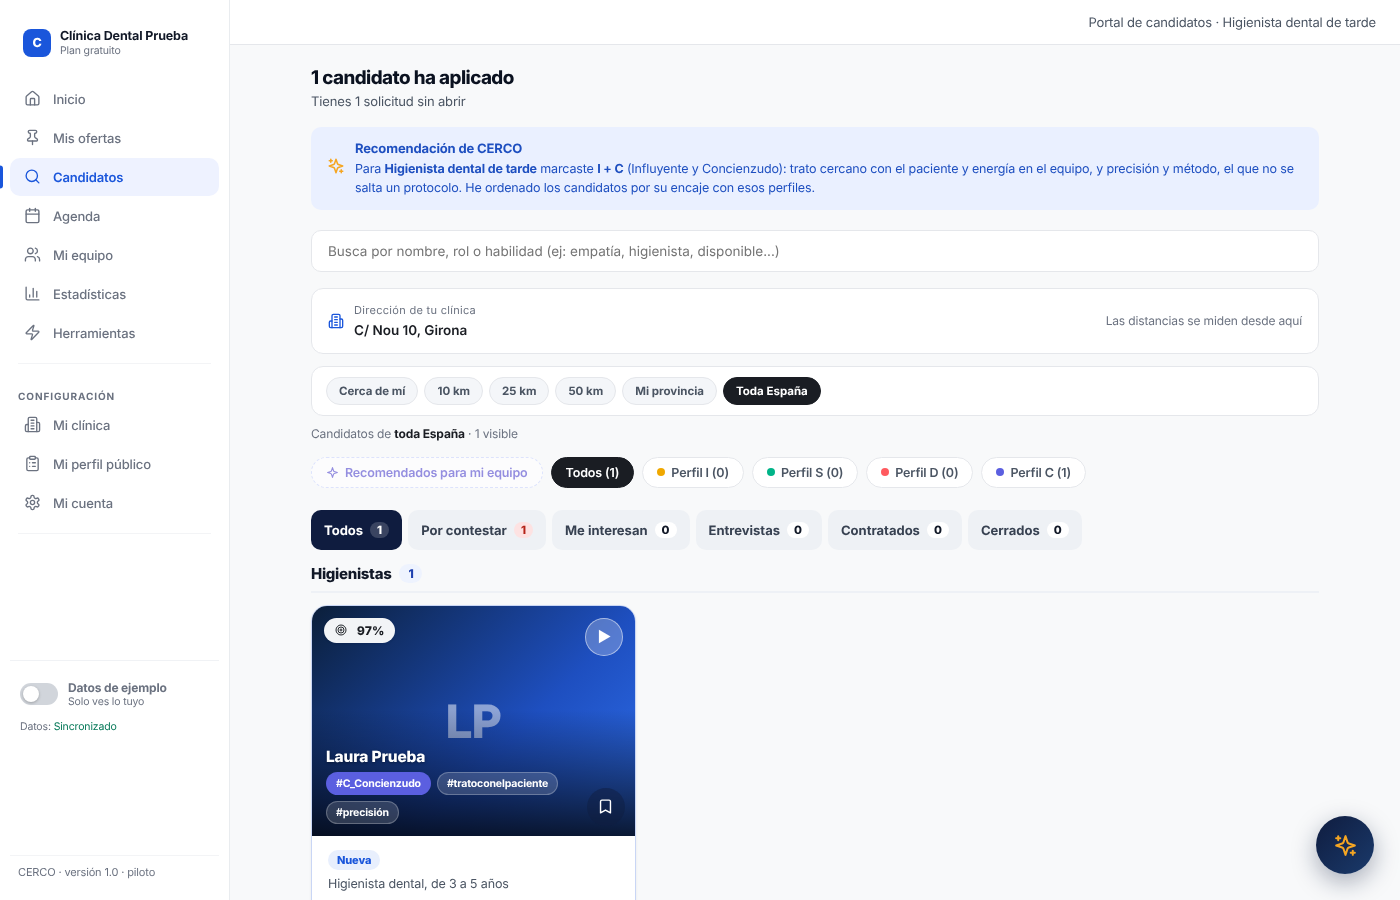
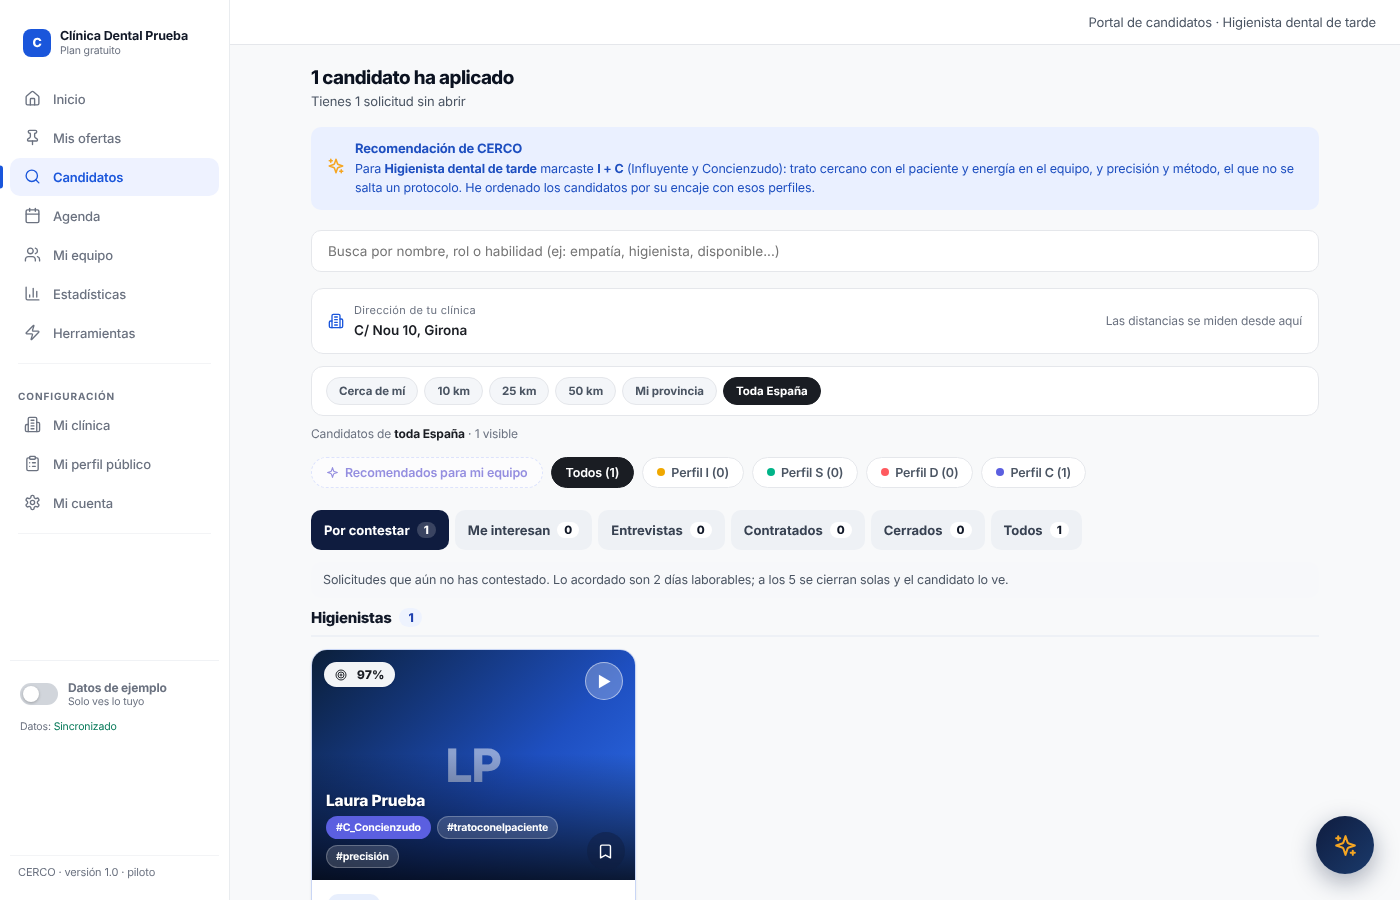
Candidatos se abre en «Por contestar» y cada persona sale solo en su fase
Pestañas: Por contestar, Me interesan, Entrevistas, Contratados, Cerrados
y, al final, Todos. En «Todos» cada persona sale una sola vez, con su
solicitud más avanzada. Al entrar en Candidatos desde otra pantalla se
abre en «Por contestar»; al volver de una ficha sigue en la pestaña donde
estaba; «Ver guardados» los enseña en «Todos». Prueba nueva (6b) y tres
capturas de Candidatos actualizadas (revisadas una a una).

Claude-Session: https://claude.ai/code/session_01L5qSpH5ECCjMh1xfSpjWDJ

diff --git a/public/clinica/09-cada-profesion.js b/public/clinica/09-cada-profesion.js
@@ -40,16 +40,20 @@
   }
 
   /* ---------- Candidatos ---------- */
-  var PROF_C = '', ETAPA = '';
+  // Candidatos se abre en «Por contestar»: cada persona sale solo en la pestaña de su fase.
+  var PROF_C = '', ETAPA = 'nuevas';
   // Cada solicitud está en una etapa. Es lo que contesta a «¿dónde ha ido?».
   var ETAPAS = [
-    ['', 'Todos', ''],
     ['nuevas', 'Por contestar', 'Solicitudes que aún no has contestado. Lo acordado son 2 días laborables; a los 5 se cierran solas y el candidato lo ve.'],
     ['int', 'Me interesan', 'Quienes has marcado con «Me interesa». Ellos ven que siguen en el proceso. Se quedan aquí 5 días laborables: en ese tiempo proponles entrevista o ciérralo con un motivo. Si no, la solicitud se cierra sola.'],
     ['entr', 'Entrevistas', 'Con entrevista propuesta o confirmada. Las tienes también, por día y hora, en tu Agenda.'],
     ['contr', 'Contratados', 'Personas que has contratado. En su ficha tienes el plan de acogida de 90 días.'],
-    ['cerr', 'Cerrados', 'Descartados, retirados o cerrados por plazo. Se guardan por si quieres volver a alguno.']
+    ['cerr', 'Cerrados', 'Descartados, retirados o cerrados por plazo. Se guardan por si quieres volver a alguno.'],
+    ['', 'Todos', 'Cada persona una sola vez, aunque haya solicitado más de una oferta: se enseña su solicitud más avanzada.']
   ];
+  // En «Todos», si una persona tiene varias solicitudes, se enseña la más avanzada
+  var PESO_ETAPA = {contr:5, entr:4, int:3, nuevas:2, cerr:1};
+  function personaDe(x){ return x.candidatoUid || x.email || x.id; }
   function etapaDe(x){
     var s = x.estado;
     if(s === 'descartada' || s === 'caducada' || s === 'retirada') return 'cerr';
@@ -60,10 +64,13 @@
   window.CERCO_etapaDe = etapaDe;
   window.verProfesionCand = function(k){ PROF_C = k; agruparCandidatos(); try{ document.getElementById('portal-reales').scrollIntoView({block:'start', behavior:'smooth'}); }catch(x){} };
   window.CERCO_etapa = function(k){ ETAPA = k || ''; agruparCandidatos(); };
+  // La usa showScreen (clinica/01i-navegacion.js) al entrar en Candidatos
+  window.CERCO_candidatosAlEntrar = function(){ ETAPA = 'nuevas'; };
   window.CERCO_verEtapa = function(k){
-    ETAPA = k || ''; if(PROF_C === 'guardados') PROF_C = '';
+    if(PROF_C === 'guardados') PROF_C = '';
     var m = document.getElementById('modal-cand'); if(m){ m.remove(); document.body.style.overflow = ''; }
     if(!document.querySelector('#screen-portal.active')){ try{ ofertaEnPortal = null; }catch(x){} showScreen('portal'); }
+    ETAPA = k || '';
     setTimeout(function(){ agruparCandidatos(); try{ document.getElementById('etapa-tabs').scrollIntoView({block:'start', behavior:'smooth'}); }catch(x){} }, 140);
   };
   function marcarEtapa(card, x, k){
@@ -92,8 +99,18 @@
       var k = etapaDe(x); nEt[k]++; totalEt++; c.dataset.etapa = k;
       marcarEtapa(c, x, k);
     });
-    if(ETAPA && !totalEt) ETAPA = '';
-    cards.forEach(function(c){ c.classList.toggle('oculta-e', !!ETAPA && c.dataset.etapa !== ETAPA); });
+    // «Todos»: una tarjeta por persona (la de su solicitud más avanzada)
+    var mejor = {}, nPersonas = 0;
+    cards.forEach(function(c){
+      var x = por[c.dataset.id]; if(!x) return;
+      var k = personaDe(x), m = mejor[k];
+      if(!m){ nPersonas++; mejor[k] = c; }
+      else if((PESO_ETAPA[c.dataset.etapa] || 0) > (PESO_ETAPA[m.dataset.etapa] || 0)) mejor[k] = c;
+    });
+    cards.forEach(function(c){
+      var x = por[c.dataset.id], repetida = !!x && mejor[personaDe(x)] !== c;
+      c.classList.toggle('oculta-e', ETAPA ? c.dataset.etapa !== ETAPA : repetida);
+    });
     cards.forEach(function(c){
       var on = gs.indexOf(c.dataset.id) > -1; if(on && (por[c.dataset.id]||{}).estado !== 'retirada') nGuard++;
       c.classList.toggle('oculta-g', PROF_C === 'guardados' && !on);
@@ -130,11 +147,11 @@
     ['etapa-tabs','etapa-nota'].forEach(function(id){ var v = document.getElementById(id); if(v) v.remove(); });
     if(totalEt){
       var th = '<div class="etapas" id="etapa-tabs" role="tablist" aria-label="Etapa del proceso">' + ETAPAS.map(function(t){
-        var n = t[0] ? nEt[t[0]] : totalEt, on = ETAPA === t[0];
+        var n = t[0] ? nEt[t[0]] : nPersonas, on = ETAPA === t[0];
         return '<button type="button" role="tab" class="etapa'+(on ? ' on' : '')+(t[0] === 'nuevas' && n ? ' urg' : '')+'" aria-selected="'+on+'" onclick="CERCO_etapa(\''+t[0]+'\')">'+t[1]+' <b>'+n+'</b></button>';
       }).join('') + '</div>';
       var et = ETAPAS.filter(function(t){ return t[0] === ETAPA; })[0];
-      if(ETAPA && et) th += '<div class="etapa-nota" id="etapa-nota">'+e(et[2])+(visTotal ? '' : ' <b>Ahora no hay nadie aquí.</b>')+'</div>';
+      if(et && (ETAPA || !visTotal)) th += '<div class="etapa-nota" id="etapa-nota">'+e(et[2])+(visTotal ? '' : ' <b>Ahora no hay nadie aquí.</b>')+'</div>';
       (document.getElementById('prof-chips-c') || document.getElementById('cmp-entry') || box).insertAdjacentHTML('beforebegin', th);
     }
   }
@@ -156,6 +173,7 @@
     var m = document.getElementById('modal-cand'); if(m) m.remove();
     PROF_C = 'guardados';
     if(!document.querySelector('#screen-portal.active')){ try{ ofertaEnPortal = null; }catch(x){} showScreen('portal'); }
+    ETAPA = ''; // los guardados se ven todos juntos, en «Todos»
     setTimeout(function(){ agruparCandidatos(); try{ document.getElementById('prof-chips-c').scrollIntoView({block:'start', behavior:'smooth'}); }catch(x){} }, 120);
   };
   function avisoGuard(txt, accion){

diff --git a/pruebas/e2e/10-recorrido.spec.js b/pruebas/e2e/10-recorrido.spec.js
@@ -402,6 +402,41 @@ test('6. La profesional ve el estado, «Tu incorporación», confirma el contrat
   expect(pro.page.erroresPagina).toEqual([]);
 });
 
+test('6b. Candidatos: se abre en «Por contestar» y cada persona sale solo en su fase', async () => {
+  const c = clinica.page;
+  await c.evaluate(() => { try { ofertaEnPortal = null; } catch (e) {} showScreen('inicio'); });
+  await c.locator('.shell-nav-item[data-screen="portal"], .mtab[data-tab="portal"]').locator('visible=true').first().click();
+  const tabs = c.locator('#etapa-tabs').locator('visible=true').first();
+  await expect(tabs).toBeVisible();
+  // Orden de las pestañas: «Todos» al final
+  await expect(tabs.locator('button')).toHaveText([/^Por contestar/, /^Me interesan/, /^Entrevistas/, /^Contratados/, /^Cerrados/, /^Todos/]);
+  await expect(tabs.locator('button[aria-selected="true"]')).toHaveText(/^Por contestar\s*0/);
+  await seVe(c, 'Ahora no hay nadie aquí.');
+  const visibles = c.locator('#portal-reales-lista .cand-real').locator('visible=true');
+  await expect(visibles).toHaveCount(0);
+  // Laura tiene dos solicitudes: la contratada y la retirada. Cada una en su pestaña…
+  await tabs.getByRole('tab', { name: /^Contratados/ }).click();
+  await expect(visibles).toHaveCount(1);
+  await expect(visibles.first()).toContainText('Contratada');
+  await tabs.getByRole('tab', { name: /^Cerrados/ }).click();
+  await expect(visibles).toHaveCount(1);
+  await expect(visibles.first()).toContainText('Retirada');
+  // …y en «Todos» sale una sola vez, con la más avanzada (la contratada)
+  await c.locator('#etapa-tabs').locator('visible=true').first().getByRole('tab', { name: /^Todos/ }).click();
+  await expect(c.locator('#etapa-tabs').locator('visible=true').first().getByRole('tab', { name: /^Todos/ })).toHaveText(/Todos\s*1/);
+  await expect(visibles).toHaveCount(1);
+  await expect(visibles.first()).toContainText('Contratada');
+  // Al abrir una ficha y volver, sigue en la pestaña donde estaba
+  await c.locator('#etapa-tabs').locator('visible=true').first().getByRole('tab', { name: /^Contratados/ }).click();
+  await c.locator('#portal-reales-lista [onclick^="abrirFichaCandidato"]').locator('visible=true').first().click();
+  await c.locator('#screen-ficha .back').locator('visible=true').first().click();
+  await expect(c.locator('#etapa-tabs').locator('visible=true').first().locator('button[aria-selected="true"]')).toHaveText(/^Contratados/);
+  // Al ir a otra pantalla y volver a Candidatos, se abre otra vez en «Por contestar»
+  await c.evaluate(() => showScreen('inicio'));
+  await c.evaluate(() => showScreen('portal'));
+  await expect(c.locator('#etapa-tabs').locator('visible=true').first().locator('button[aria-selected="true"]')).toHaveText(/^Por contestar/);
+});
+
 test('7. El resto de pantallas de la clínica se ven bien y sin errores', async () => {
   const page = clinica.page;
   await page.reload();
@@ -464,6 +499,7 @@ test('9. Recomendados, dirección de la clínica, cerrar sesión y volver a entr
   if (await page.locator('#global-chat-modal').count()) await page.locator('#global-chat-modal button[onclick*="remove()"]').first().click();
   // «Recomendados para mi equipo» se activa y Candidatos se vuelve a pintar
   await page.evaluate(() => showScreen('portal'));
+  await page.locator('#etapa-tabs').locator('visible=true').first().getByRole('tab', { name: /^Todos/ }).click(); // Candidatos se abre en «Por contestar»
   await page.locator('#chip-recomanats').click();
   await seVe(page, 'Laura Prueba');
   await page.locator('#chip-recomanats').click();
@@ -488,6 +524,7 @@ test('9. Recomendados, dirección de la clínica, cerrar sesión y volver a entr
   await page.evaluate(() => showScreen('ofertes'));
   await expect(page.locator('#screen-ofertes')).toContainText('Higienista dental de tarde');
   await page.evaluate(() => showScreen('portal'));
+  await page.locator('#etapa-tabs').locator('visible=true').first().getByRole('tab', { name: /^Todos/ }).click(); // Candidatos se abre en «Por contestar»
   await seVe(page, 'Laura Prueba');
   expect(page.erroresPagina).toEqual([]);
 
@@ -503,7 +540,6 @@ test('9. Recomendados, dirección de la clínica, cerrar sesión y volver a entr
   await expect(p.locator('#ev2-t')).toHaveCount(0);
   await p.waitForTimeout(4000); // lo que tardaría en preparar las miniaturas
   expect(p.erroresPagina).toEqual([]);
-  await p.evaluate(() => salir());
   await p.evaluate(() => salir());
   await seVe(p, 'Tu futuro está en tus manos.', { exact: false });
   await p.getByText('Ya tengo cuenta').locator('visible=true').first().click();

diff --git a/public/clinica/01i-navegacion.js b/public/clinica/01i-navegacion.js
@@ -90,6 +90,8 @@ window.showScreen = function(id){
   // Al salir de la ficha de un candidato, se quita la ficha provisional (clinica/16-ficha-candidato.js)
   if(window.CERCO_fichaAlCambiarPantalla) CERCO_fichaAlCambiarPantalla(id);
   var pedida = id;
+  // Al entrar en Candidatos desde otra pantalla (no al volver de una ficha), se abre en «Por contestar» (clinica/09-cada-profesion.js)
+  if(id === 'portal' && !document.querySelector('#screen-portal.active, #screen-ficha.active, #screen-candidat.active') && window.CERCO_candidatosAlEntrar) CERCO_candidatosAlEntrar();
   // Las entrevistas de ejemplo llevan a la Agenda real (clinica/12-todo-conectado.js)
   if(window.CERCO_agendaRedirigir) id = CERCO_agendaRedirigir(id);
   var r = _mostrarPantallaBase.apply(this, [id].concat([].slice.call(arguments, 1)));
